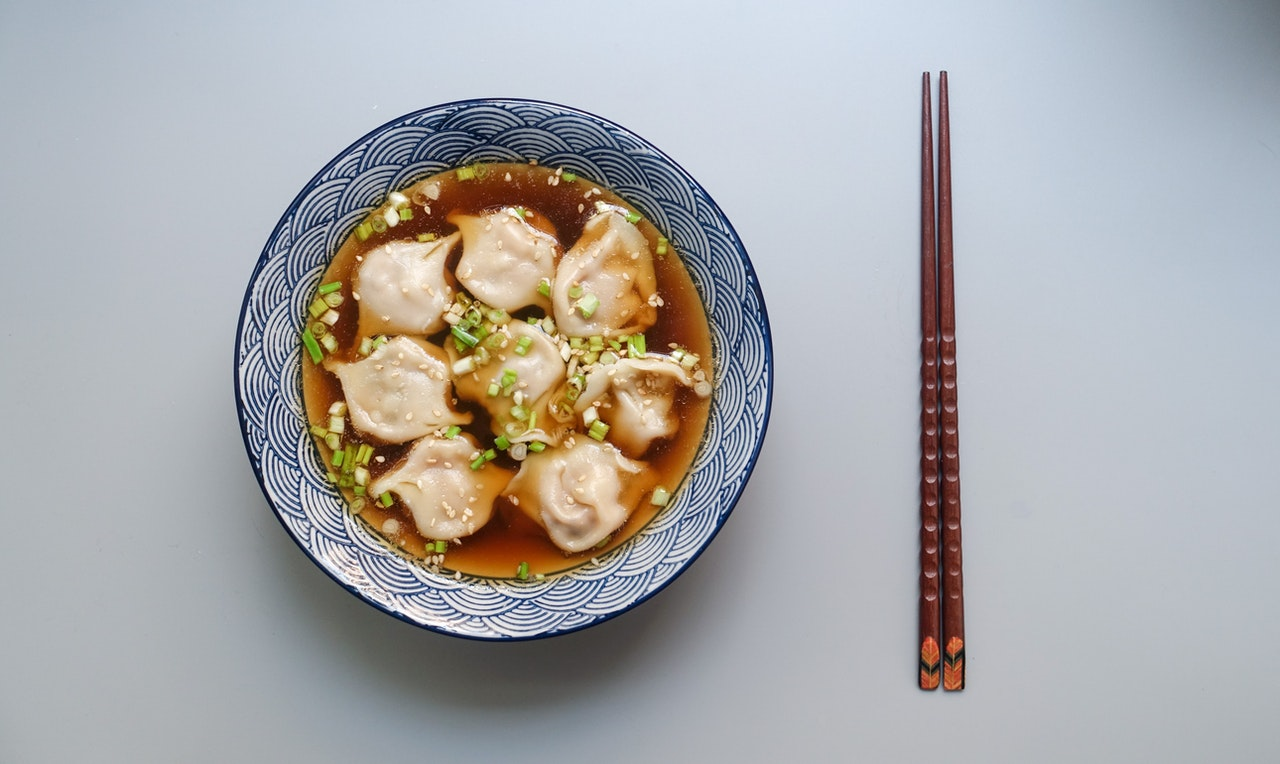
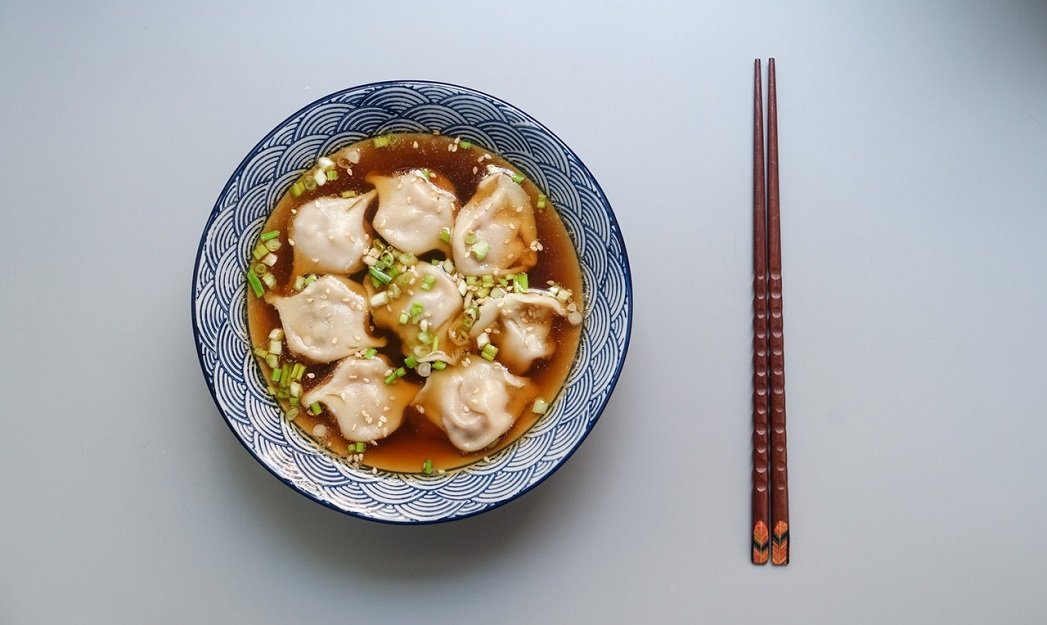
reduced picture size, im also implementing css grid

diff --git a/styles/styles.css b/styles/styles.css
@@ -9,7 +9,16 @@ body {
   margin: 0px;
   background-color: #ffffff;
 }
+.site-container {
+  display: grid;
+  grid-template-areas: 
+                       "cta-img-container"
+                       "packages-img-container"
+                       "welcome-img-container";
+ /*grid-template-columns: repeat(auto-fit, minmax(3fr)); */
+  grid-template-rows: repeat(3, 0.8fr)
 
+}
 .brand-title {
   color: #C4171D;
   font-family: "Montserrat", sans-serif;
@@ -95,23 +104,24 @@ body {
 }
 
 .cta-img-container {
-  position: relative;
-  height: 100%;
-  width: 100%;
+  background: url("https://github.com/weiyuanlee-if/heavenlybirdrestaurant/blob/main/images/dumplingcta.png?raw=true") center;
+  background-size: cover;
+  
+  
 }
 
-.cta-img {
+/*.cta-img {
   display: block;
   width: 100%;
   height: 625px;
   overflow: hidden;
   -webkit-transform: scaleX(-1);
   transform: scaleX(-1);
-}
+}*/
 
 .cta-card {
   position: absolute;
-  width: 600px;
+  width: 615px;
   height: 195px;
   display: -webkit-box;
   display: -ms-flexbox;
@@ -147,13 +157,13 @@ body {
   text-align: center;
   font-family: "Montserrat", sans-serif;
   margin: 0px;
-  padding-top: 1em;
+  padding-top: 0.5em;
 }
 
 .cta-text {
   color: white;
   text-align: left;
-  padding: 0em 2em 0em 2em;
+  padding: 0em 3em 0em 2em;
   font-family: "PT Serif", serif;
   font-size: 18px;
 }
@@ -283,7 +293,7 @@ body {
   font-family: "Montserrat", sans-serif;
   text-align: center;
   margin: 0px;
-  padding: 1em 0em 0.5em 0em;
+  padding: 1.5em 0em 0.3em 0em;
 }
 
 .welcome-container-wrapper {
@@ -297,7 +307,7 @@ body {
 
 .welcome-text-card {
   width: 600px;
-  height: 195px;
+  height: 235px;
   display: -webkit-box;
   display: -ms-flexbox;
   display: flex;
@@ -311,14 +321,15 @@ body {
   -webkit-box-align: center;
       -ms-flex-align: center;
           align-items: center;
-  padding: 1.5em 3em 4em 3em;
-  margin: 8em 2em 5em 4em;
+  padding: 1em 3em 4em 3em;
+  margin: 7em 2em 6em 4em;
   background-color: white;
 }
 
 .welcome-text {
   font-family: "PT Serif", serif;
   font-size: 18px;
+  padding-bottom: 1em;
 }
 
 .book-btn {

diff --git a/index.html b/index.html
@@ -11,6 +11,7 @@
 </head>
 
 <body>
+    
     <nav class="navbar">
         <div class="logo-section">
             <img class="brand-logo" src="images/logo.png">
@@ -31,8 +32,8 @@
     </nav>
     <div class="site-container">
         <div class="cta-img-container">
-            <img src="images/dumplingcta.png" class="cta-img"
-                alt="A person with a pair of chopsticks reaching for a block of tofu">
+            <!--<img src="images/dumplingcta.png" class="cta-img"
+                alt="A person with a pair of chopsticks reaching for a block of tofu"> -->
             <div class="cta-card">
                 <div class="cta-content">
                     <h1 class="cta-hd1">WARMTH FOR THE BELLY</h1>
@@ -85,7 +86,6 @@
                 <img src="images/dimsumtable.png" alt="" class="welcome-content-img">
             </div>
         </div>
-
     </div>
     <footer class="footer-address">
         <ul class="footer-navbar">
@@ -110,7 +110,7 @@
             </ul>
         </div>
     </footer>
-    </div>
+   
     <script src="app.js"></script>
 </body>
 
